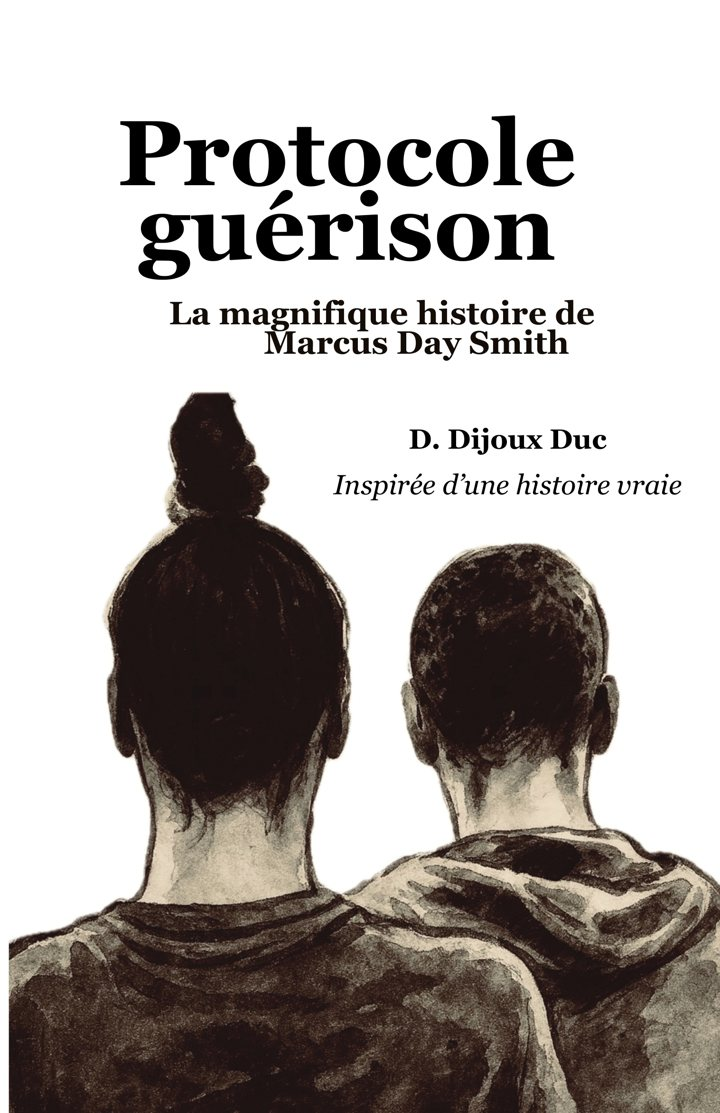
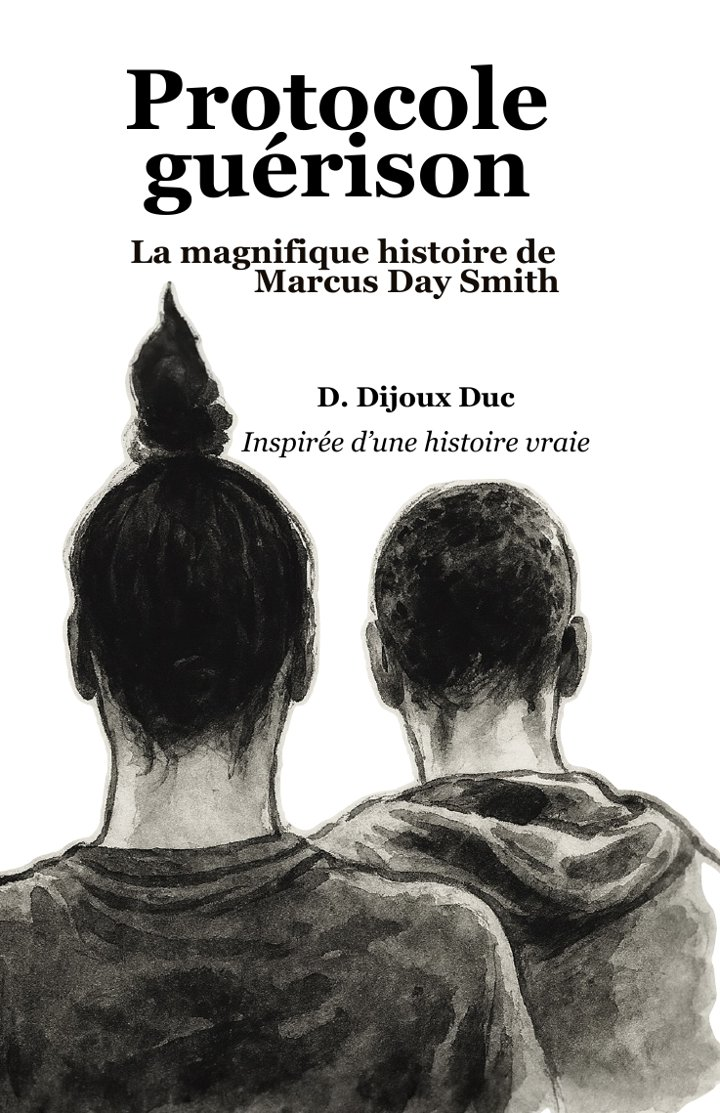
Add files via upload

diff --git a/livres/index.html b/livres/index.html
@@ -99,7 +99,7 @@ a{color:#F3EFE8}a:hover{color:#B9AEE6}
           <p>Toute sa vie, Marcus a fait des freezes, ces arrêts parfaits qui suspendent le temps et font crier la foule. Mais c'était lui qui décidait quand…</p>
           <p>Une traversée à la fois poignante et lumineuse, qui révèle que le temps qu'il nous reste ne se mesure pas en durée, mais en intensité…</p>
         </div>
-        <p style="margin:8px 0 0;font-size:14px;color:#A9A4B3">Poche · 206 pages · ISBN 979-10-979163-1-2 · Édition Dipyze</p>
+        <p style="margin:8px 0 0;font-size:14px;color:#A9A4B3">Poche · 208 pages · ISBN 979-10-979163-1-2 · Édition Dipyze</p>
         <a href="mailto:contact@dipyze.com?subject=Protocole%20gu%C3%A9rison%20%E2%80%94%20%C3%AAtre%20pr%C3%A9venu%20de%20la%20mise%20en%20vente" style="display:inline-flex;align-items:center;min-height:50px;margin-top:20px;padding:0 26px;border-radius:999px;background:#E3B88A;color:#1A1418;text-decoration:none;font-weight:600;font-size:15px">Être prévenu de la mise en vente</a>
       </div>
     </div>
